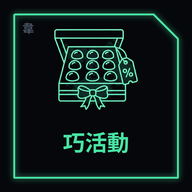
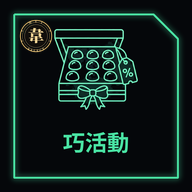
r69: 圖片韋字浮水印；桌面小圖；sw r69

Changed region(s): [[0.0938, 0.0938, 0.2812, 0.2812]]

diff --git a/index.html b/index.html
@@ -1733,7 +1733,60 @@ function place(){var h=document.getElementById('r16home')||document.getElementBy
 relabel();place();setTimeout(function(){relabel();place();},900);
 })();
 </script><style id="r17-font">html body,html body *:not(svg):not(path):not(circle):not(rect){font-family:"Microsoft JhengHei","微軟正黑體",system-ui,-apple-system,"PingFang TC","Noto Sans TC","Noto Sans CJK TC",sans-serif!important}
-section.card .en,#r16home .en,.en,i.en,.navhead .sub{font-style:normal!important}</style><script id="r55j">(function(){
+section.card .en,#r16home .en,.en,i.en,.navhead .sub{font-style:normal!important}</style><script id="wmk">(function(){
+ if(window.__wmk)return;window.__wmk=1;
+ var st=document.createElement('style');
+ st.textContent='[data-wmk]::after{content:"";position:absolute;left:var(--wx);top:var(--wy);width:var(--ws);height:var(--ws);pointer-events:none;background:url(img/brand/wm.webp) center/contain no-repeat;opacity:.92;z-index:2;filter:drop-shadow(0 1px 2px rgba(0,0,0,.5))}';
+ document.head.appendChild(st);
+ function skip(im){var s=im.getAttribute('src')||im.currentSrc||'';return /pst_|\/brand\/|icon-|wm\.webp|^data:/.test(s);}
+ function corner(im,s){
+  var k='__wc'+s;if(im[k])return im[k];var c='tr';
+  try{var W=48,H=Math.max(8,Math.round(48*im.naturalHeight/im.naturalWidth)),cv=document.createElement('canvas');cv.width=W;cv.height=H;var x=cv.getContext('2d');x.drawImage(im,0,0,W,H);var d=x.getImageData(0,0,W,H).data;
+   var r=Math.max(3,Math.round(W*s/im.clientWidth))+1,best=1e9;
+   [['tr',W-r,0],['tl',0,0],['br',W-r,H-r],['bl',0,H-r]].forEach(function(q){var n=0,m=[0,0,0],v=0,px=[];for(var yy=q[2];yy<q[2]+r;yy++)for(var xx=q[1];xx<q[1]+r;xx++){var i=(yy*W+xx)*4;if(d[i+3]<20){px.push(null);continue;}px.push([d[i],d[i+1],d[i+2]]);}
+    var ok=px.filter(Boolean);if(!ok.length){v=0;}else{ok.forEach(function(a){m[0]+=a[0];m[1]+=a[1];m[2]+=a[2];});m=m.map(function(t){return t/ok.length;});ok.forEach(function(a){v+=Math.abs(a[0]-m[0])+Math.abs(a[1]-m[1])+Math.abs(a[2]-m[2]);});v=v/ok.length;}
+    if(v<best-4){best=v;c=q[0];}});
+  }catch(e){c='tr';}
+  im[k]=c;return c;}
+ function place(im){
+  if(skip(im))return;
+  var pa=im.parentElement;if(!pa)return;
+  if(pa.__wimg&&pa.__wimg!==im)return;
+  var w=im.clientWidth,h=im.clientHeight;
+  if(w<120||h<90||!im.offsetParent){if(pa.hasAttribute('data-wmk'))pa.removeAttribute('data-wmk');return;}
+  if(!pa.__wchk){pa.__wchk=1;var cs=getComputedStyle(pa),ca=getComputedStyle(pa,'::after').content;
+   if(ca&&ca!=='none'&&ca!=='normal'){pa.__wno=1;}
+   else if(cs.position==='static'){var abs=[].some.call(pa.children,function(c){return c!==im&&/absolute|fixed/.test(getComputedStyle(c).position);});if(abs)pa.__wno=1;else pa.style.position='relative';}}
+  if(pa.__wno)return;pa.__wimg=im;
+  var s=Math.round(Math.max(26,Math.min(52,w*0.14))),g=Math.round(s*0.2);
+  var pr=pa.getBoundingClientRect(),ir=im.getBoundingClientRect();
+  var bx=ir.left-pr.left-(pa.clientLeft||0)+pa.scrollLeft,by=ir.top-pr.top-(pa.clientTop||0)+pa.scrollTop;
+  var c=im.complete&&im.naturalWidth?corner(im,s):'tr';
+  pa.style.setProperty('--ws',s+'px');
+  pa.style.setProperty('--wx',Math.round(c.charAt(1)==='r'?bx+w-s-g:bx+g)+'px');
+  pa.style.setProperty('--wy',Math.round(c.charAt(0)==='t'?by+g:by+h-s-g)+'px');
+  if(!pa.hasAttribute('data-wmk'))pa.setAttribute('data-wmk','');
+  if(ro&&!im.__wro0){im.__wro0=1;ro.observe(im);}
+ }
+ var Q=[],qt=0,lastS=0;
+ window.addEventListener('scroll',function(){lastS=Date.now();},{passive:true,capture:true});
+ var ric=window.requestIdleCallback||function(f){return setTimeout(function(){f({timeRemaining:function(){return 8;}});},50);};
+ function flush(){qt=0;if(Date.now()-lastS<250){qt=setTimeout(flush,300);return;}qt=1;ric(function(dl){qt=0;var n=0;while(Q.length&&(n<3||dl.timeRemaining()>4)){var im=Q.shift();n++;if(im.__wq){im.__wq=0;place(im);}}if(Q.length&&!qt)qt=setTimeout(flush,200);},{timeout:3000});}
+ function near(im){var r=im.getBoundingClientRect();return r.width>0&&r.bottom>-300&&r.top<innerHeight+300;}
+ function want(im){if(im.__wq)return;im.__wq=1;Q.push(im);if(!qt)qt=setTimeout(flush,400);}
+ var io='IntersectionObserver' in window?new IntersectionObserver(function(es){es.forEach(function(e){if(e.isIntersecting)want(e.target);});},{rootMargin:'200px'}):null;
+ var ro='ResizeObserver' in window?new ResizeObserver(function(es){es.forEach(function(e){var t=e.target;if(t.__wro){want(t);}else t.__wro=1;});}):null;
+ function hook(im){if(im.__wmh)return;im.__wmh=1;if(skip(im))return;im.addEventListener('load',function(){if(io){io.unobserve(im);io.observe(im);}});if(io)io.observe(im);}
+ function scan(root){[].forEach.call(root.querySelectorAll('img'),hook);}
+ function all(root){if(!io)return;[].forEach.call((root&&root.querySelectorAll?root:document).querySelectorAll('img'),function(im){if(im.__wmh&&!skip(im)){io.unobserve(im);io.observe(im);}});}
+ function start(){scan(document);new MutationObserver(function(ms){ms.forEach(function(mu){[].forEach.call(mu.addedNodes,function(n){if(n.nodeType!==1)return;if(n.tagName==='IMG')hook(n);else if(n.querySelectorAll)scan(n);});});}).observe(document.body,{childList:true,subtree:true});
+  var t;window.addEventListener('resize',function(){clearTimeout(t);t=setTimeout(all,150);});
+  document.addEventListener('toggle',function(e){var t=e.target;setTimeout(function(){all(t);},60);},true);
+}
+ function later(){setTimeout(function(){(window.requestIdleCallback||setTimeout)(start,{timeout:4000});},1800);}
+ if(document.readyState==='complete')later();else window.addEventListener('load',later);
+})();
+</script><script id="r55j">(function(){
  var seg=document.querySelector('.pmseg'), pm=document.getElementById('pmwall'); if(!seg||!pm) return;
  seg.addEventListener('click',function(e){
   var b=e.target.closest('button[data-pw]'); if(!b) return;

diff --git a/card.html b/card.html
@@ -218,4 +218,57 @@ function place(){var h=document.getElementById('r16home')||document.getElementBy
 relabel();place();setTimeout(function(){relabel();place();},900);
 })();
 </script><style id="r17-font">html body,html body *:not(svg):not(path):not(circle):not(rect){font-family:"Microsoft JhengHei","微軟正黑體",system-ui,-apple-system,"PingFang TC","Noto Sans TC","Noto Sans CJK TC",sans-serif!important}
-section.card .en,#r16home .en,.en,i.en,.navhead .sub{font-style:normal!important}</style></body></html>
+section.card .en,#r16home .en,.en,i.en,.navhead .sub{font-style:normal!important}</style><script id="wmk">(function(){
+ if(window.__wmk)return;window.__wmk=1;
+ var st=document.createElement('style');
+ st.textContent='[data-wmk]::after{content:"";position:absolute;left:var(--wx);top:var(--wy);width:var(--ws);height:var(--ws);pointer-events:none;background:url(img/brand/wm.webp) center/contain no-repeat;opacity:.92;z-index:2;filter:drop-shadow(0 1px 2px rgba(0,0,0,.5))}';
+ document.head.appendChild(st);
+ function skip(im){var s=im.getAttribute('src')||im.currentSrc||'';return /pst_|\/brand\/|icon-|wm\.webp|^data:/.test(s);}
+ function corner(im,s){
+  var k='__wc'+s;if(im[k])return im[k];var c='tr';
+  try{var W=48,H=Math.max(8,Math.round(48*im.naturalHeight/im.naturalWidth)),cv=document.createElement('canvas');cv.width=W;cv.height=H;var x=cv.getContext('2d');x.drawImage(im,0,0,W,H);var d=x.getImageData(0,0,W,H).data;
+   var r=Math.max(3,Math.round(W*s/im.clientWidth))+1,best=1e9;
+   [['tr',W-r,0],['tl',0,0],['br',W-r,H-r],['bl',0,H-r]].forEach(function(q){var n=0,m=[0,0,0],v=0,px=[];for(var yy=q[2];yy<q[2]+r;yy++)for(var xx=q[1];xx<q[1]+r;xx++){var i=(yy*W+xx)*4;if(d[i+3]<20){px.push(null);continue;}px.push([d[i],d[i+1],d[i+2]]);}
+    var ok=px.filter(Boolean);if(!ok.length){v=0;}else{ok.forEach(function(a){m[0]+=a[0];m[1]+=a[1];m[2]+=a[2];});m=m.map(function(t){return t/ok.length;});ok.forEach(function(a){v+=Math.abs(a[0]-m[0])+Math.abs(a[1]-m[1])+Math.abs(a[2]-m[2]);});v=v/ok.length;}
+    if(v<best-4){best=v;c=q[0];}});
+  }catch(e){c='tr';}
+  im[k]=c;return c;}
+ function place(im){
+  if(skip(im))return;
+  var pa=im.parentElement;if(!pa)return;
+  if(pa.__wimg&&pa.__wimg!==im)return;
+  var w=im.clientWidth,h=im.clientHeight;
+  if(w<120||h<90||!im.offsetParent){if(pa.hasAttribute('data-wmk'))pa.removeAttribute('data-wmk');return;}
+  if(!pa.__wchk){pa.__wchk=1;var cs=getComputedStyle(pa),ca=getComputedStyle(pa,'::after').content;
+   if(ca&&ca!=='none'&&ca!=='normal'){pa.__wno=1;}
+   else if(cs.position==='static'){var abs=[].some.call(pa.children,function(c){return c!==im&&/absolute|fixed/.test(getComputedStyle(c).position);});if(abs)pa.__wno=1;else pa.style.position='relative';}}
+  if(pa.__wno)return;pa.__wimg=im;
+  var s=Math.round(Math.max(26,Math.min(52,w*0.14))),g=Math.round(s*0.2);
+  var pr=pa.getBoundingClientRect(),ir=im.getBoundingClientRect();
+  var bx=ir.left-pr.left-(pa.clientLeft||0)+pa.scrollLeft,by=ir.top-pr.top-(pa.clientTop||0)+pa.scrollTop;
+  var c=im.complete&&im.naturalWidth?corner(im,s):'tr';
+  pa.style.setProperty('--ws',s+'px');
+  pa.style.setProperty('--wx',Math.round(c.charAt(1)==='r'?bx+w-s-g:bx+g)+'px');
+  pa.style.setProperty('--wy',Math.round(c.charAt(0)==='t'?by+g:by+h-s-g)+'px');
+  if(!pa.hasAttribute('data-wmk'))pa.setAttribute('data-wmk','');
+  if(ro&&!im.__wro0){im.__wro0=1;ro.observe(im);}
+ }
+ var Q=[],qt=0,lastS=0;
+ window.addEventListener('scroll',function(){lastS=Date.now();},{passive:true,capture:true});
+ var ric=window.requestIdleCallback||function(f){return setTimeout(function(){f({timeRemaining:function(){return 8;}});},50);};
+ function flush(){qt=0;if(Date.now()-lastS<250){qt=setTimeout(flush,300);return;}qt=1;ric(function(dl){qt=0;var n=0;while(Q.length&&(n<3||dl.timeRemaining()>4)){var im=Q.shift();n++;if(im.__wq){im.__wq=0;place(im);}}if(Q.length&&!qt)qt=setTimeout(flush,200);},{timeout:3000});}
+ function near(im){var r=im.getBoundingClientRect();return r.width>0&&r.bottom>-300&&r.top<innerHeight+300;}
+ function want(im){if(im.__wq)return;im.__wq=1;Q.push(im);if(!qt)qt=setTimeout(flush,400);}
+ var io='IntersectionObserver' in window?new IntersectionObserver(function(es){es.forEach(function(e){if(e.isIntersecting)want(e.target);});},{rootMargin:'200px'}):null;
+ var ro='ResizeObserver' in window?new ResizeObserver(function(es){es.forEach(function(e){var t=e.target;if(t.__wro){want(t);}else t.__wro=1;});}):null;
+ function hook(im){if(im.__wmh)return;im.__wmh=1;if(skip(im))return;im.addEventListener('load',function(){if(io){io.unobserve(im);io.observe(im);}});if(io)io.observe(im);}
+ function scan(root){[].forEach.call(root.querySelectorAll('img'),hook);}
+ function all(root){if(!io)return;[].forEach.call((root&&root.querySelectorAll?root:document).querySelectorAll('img'),function(im){if(im.__wmh&&!skip(im)){io.unobserve(im);io.observe(im);}});}
+ function start(){scan(document);new MutationObserver(function(ms){ms.forEach(function(mu){[].forEach.call(mu.addedNodes,function(n){if(n.nodeType!==1)return;if(n.tagName==='IMG')hook(n);else if(n.querySelectorAll)scan(n);});});}).observe(document.body,{childList:true,subtree:true});
+  var t;window.addEventListener('resize',function(){clearTimeout(t);t=setTimeout(all,150);});
+  document.addEventListener('toggle',function(e){var t=e.target;setTimeout(function(){all(t);},60);},true);
+}
+ function later(){setTimeout(function(){(window.requestIdleCallback||setTimeout)(start,{timeout:4000});},1800);}
+ if(document.readyState==='complete')later();else window.addEventListener('load',later);
+})();
+</script></body></html>

diff --git a/sw.js b/sw.js
@@ -1,5 +1,5 @@
 /* r56：頁面先開手機存好的版本、背景只在有變時更新；圖片字型快取跨版本保留 */
-const V = 'v2026-10-15-r62';
+const V = 'v2026-10-15-r69';
 const P = self.registration.scope + '|';
 const CORE = ['./', './index.html', './img/brand/hero.webp', './icon-192.png'];
 self.addEventListener('install', e => {
